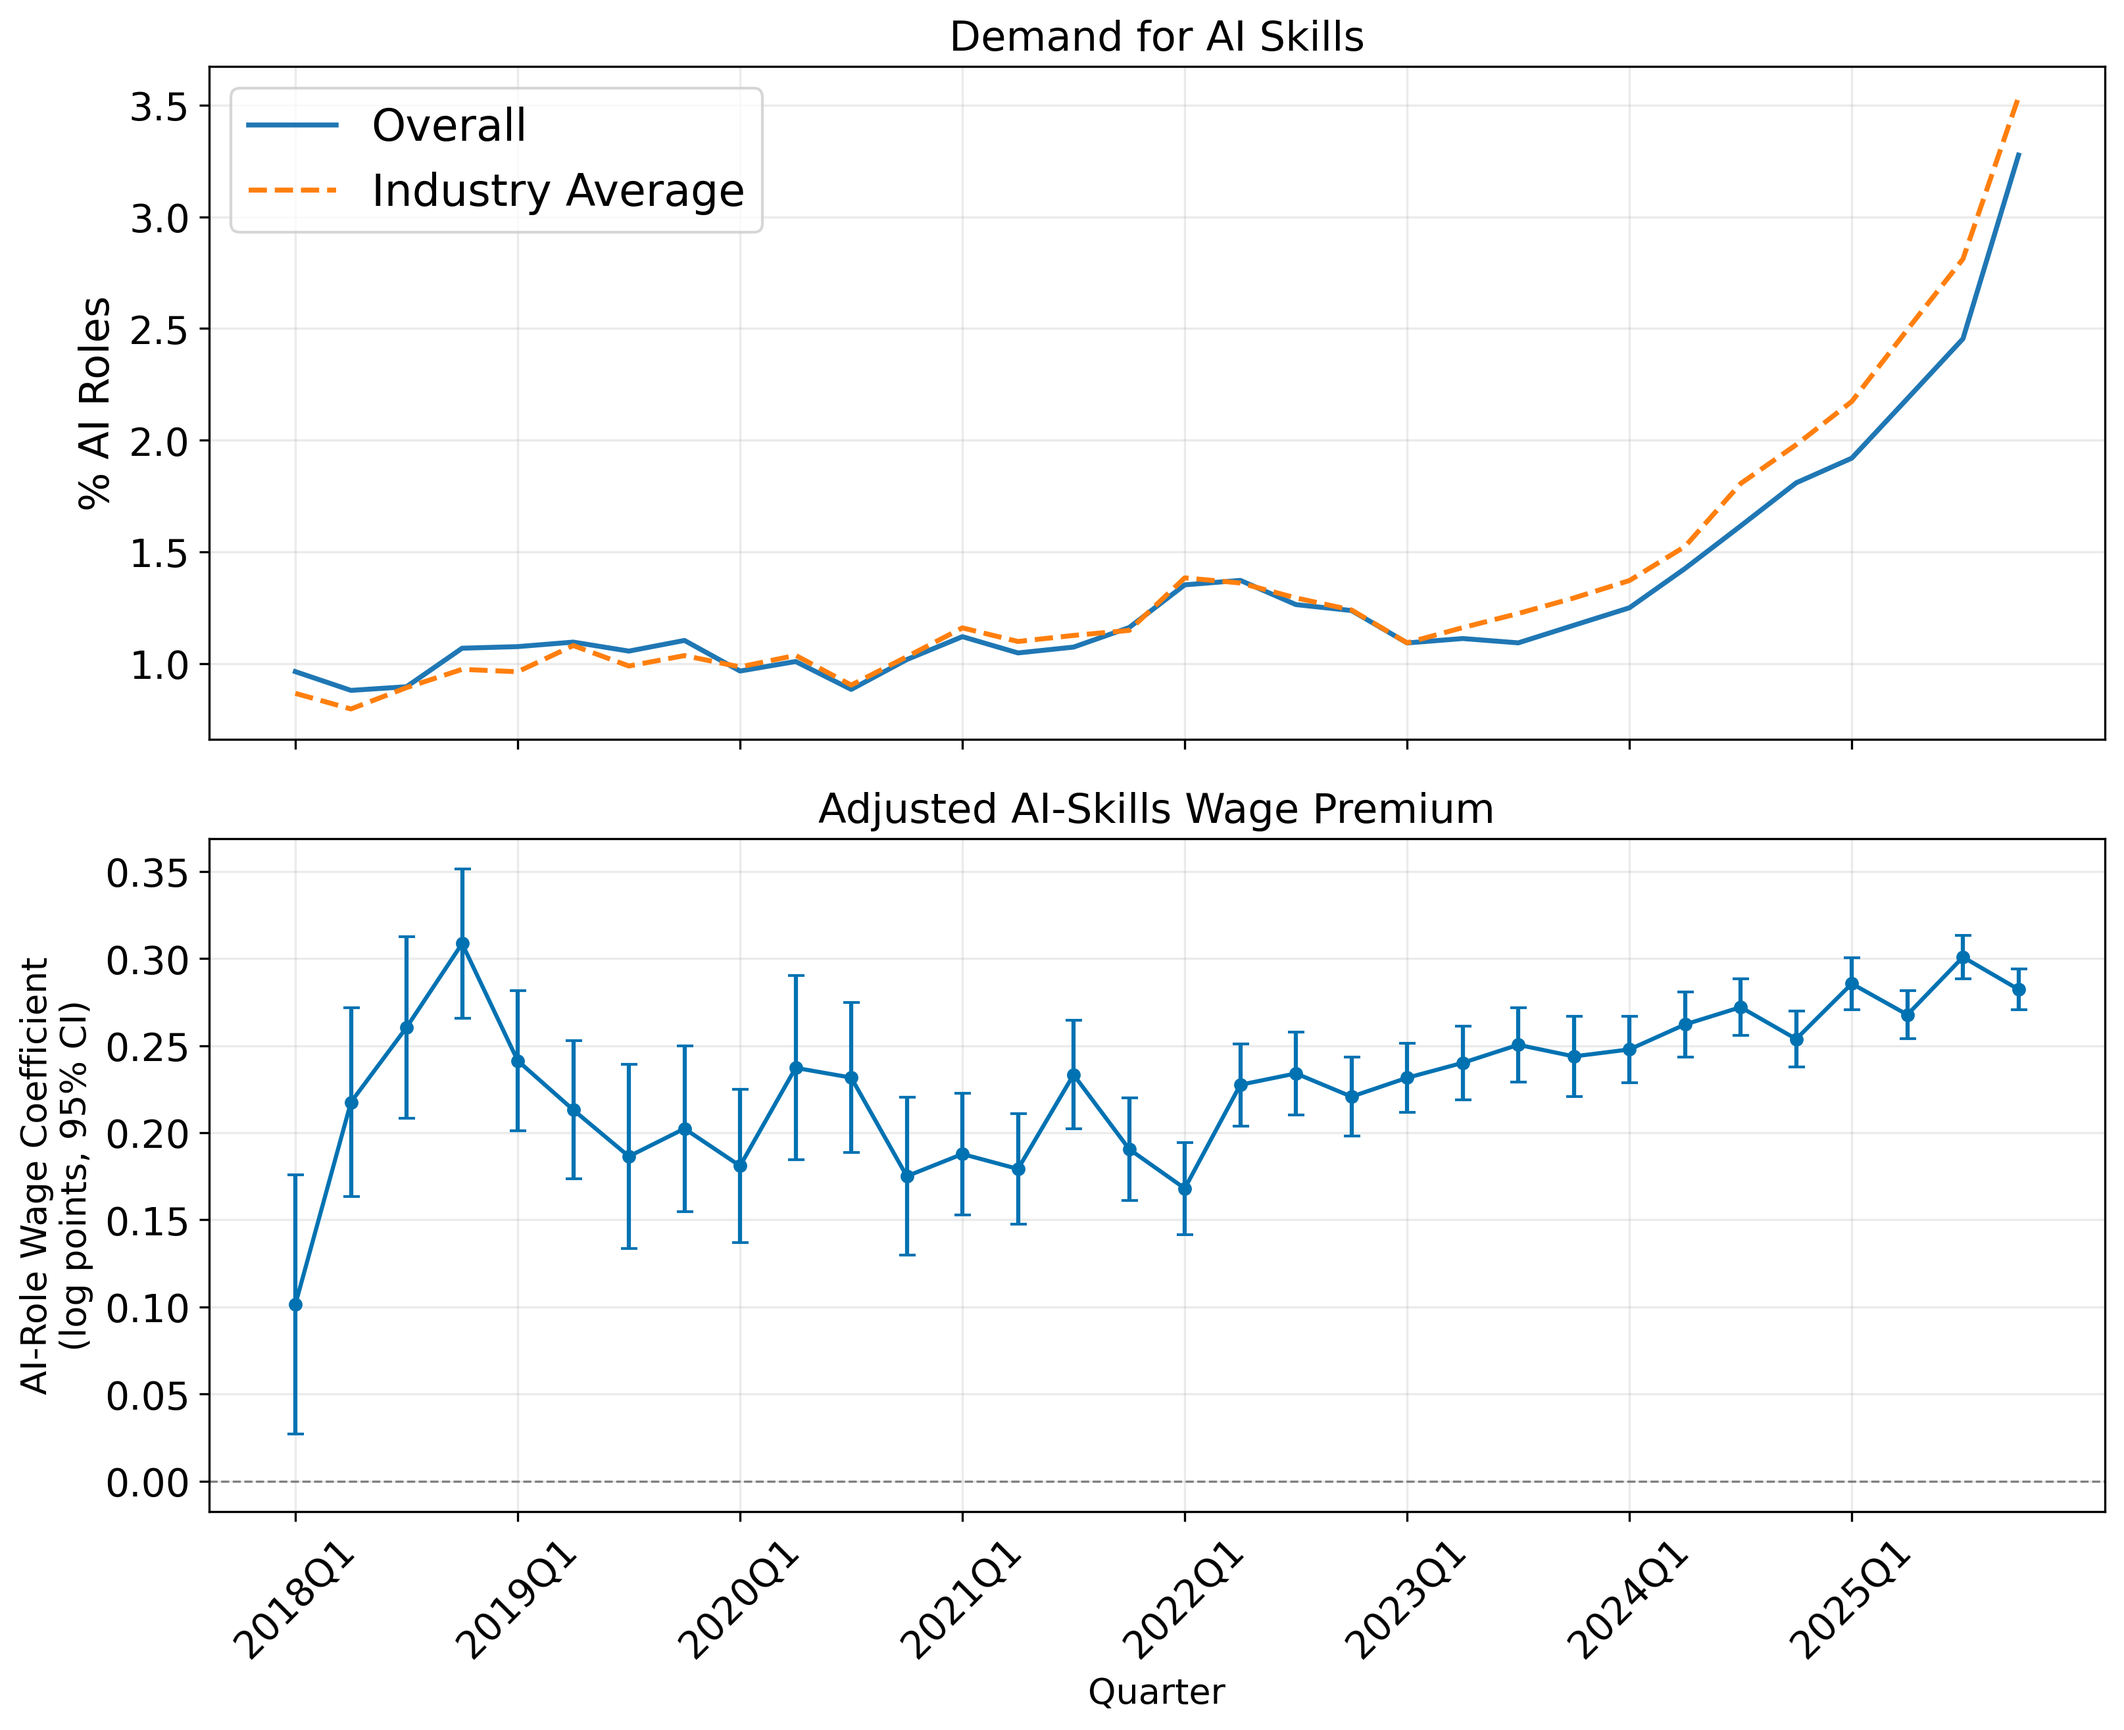
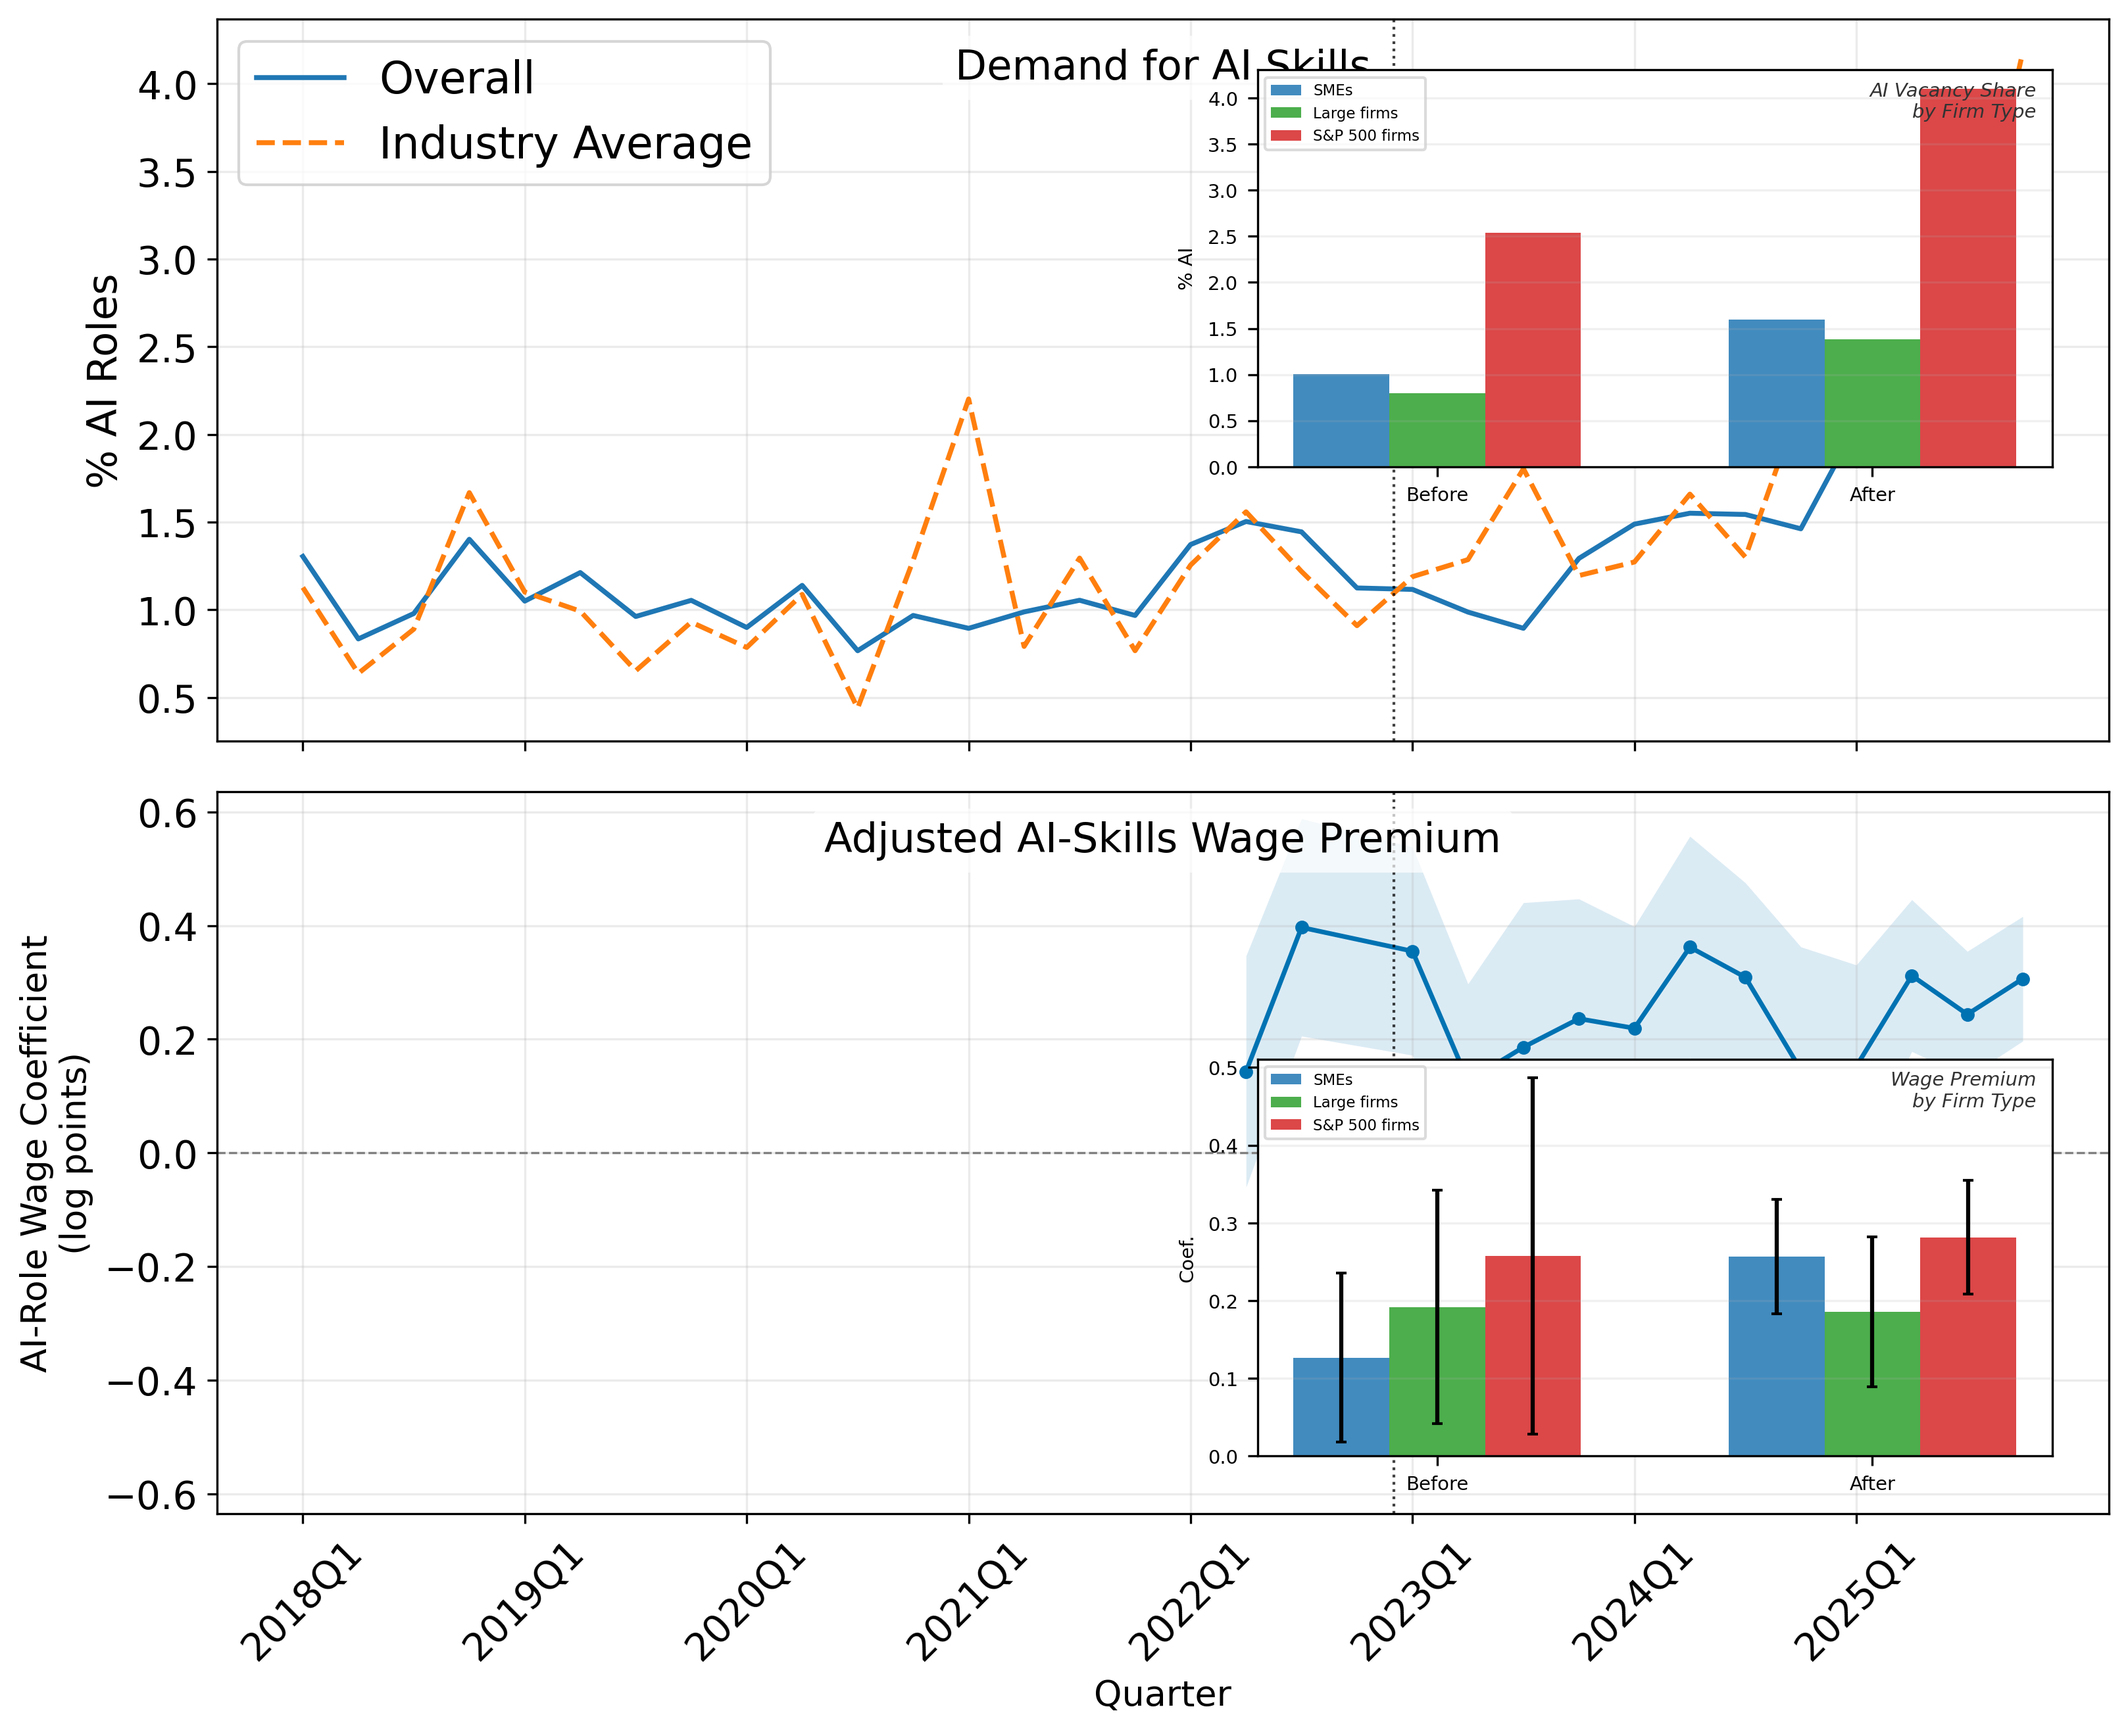
feat: enhance heatmap visualization and adjust yearly results plot limits

diff --git a/analysis/wage_perk_interaction_analysis.py b/analysis/wage_perk_interaction_analysis.py
@@ -274,14 +274,6 @@ def plot_yearly_results(results):
             if line_data.empty:
                 continue
             color = SAMPLE_COLORS[sample]
-            ax.fill_between(
-                line_data["year"],
-                line_data["beta3_lower_ci"],
-                line_data["beta3_upper_ci"],
-                color=color,
-                alpha=0.12,
-                linewidth=0,
-            )
             ax.plot(
                 line_data["year"],
                 line_data["beta3_interaction"],
@@ -293,6 +285,7 @@ def plot_yearly_results(results):
             )
         ax.axhline(0, color="gray", linewidth=0.8, linestyle="--")
         add_genai_year_line(ax)
+        ax.set_ylim(-0.2, 0.2)
         ax.set_title(benefits_labels_map[perk])
         ax.set_ylabel("AI Role × Perk Coefficient")
         ax.grid(alpha=0.2)
@@ -523,7 +516,9 @@ def plot_heatmap(results, period=POOLED_PERIOD, output_name="wage_perk_interacti
         vmax = 0.01
 
     fig, ax = plt.subplots(figsize=(8, 5.5))
-    im = ax.imshow(matrix, cmap="viridis", aspect="auto", vmin=-vmax, vmax=vmax)
+    # Diverging scale centered on zero: negative estimates are red, zero is
+    # white, and positive estimates are blue.
+    im = ax.imshow(matrix, cmap="RdBu", aspect="auto", vmin=-vmax, vmax=vmax)
 
     for i in range(matrix.shape[0]):
         for j in range(matrix.shape[1]):
@@ -567,13 +562,89 @@ def plot_heatmap(results, period=POOLED_PERIOD, output_name="wage_perk_interacti
 
 
 def plot_period_comparison_heatmaps(results):
-    """Save heatmaps for models through 2022 and after 2022."""
-    period_outputs = {
-        "Through 2022": "wage_perk_interaction_beta3_heatmap_through_2022.png",
-        "Post-2022": "wage_perk_interaction_beta3_heatmap_post_2022.png",
-    }
-    for period, output_name in period_outputs.items():
-        plot_heatmap(results, period=period, output_name=output_name)
+    """Plot pre- and post-2022 beta3 heatmaps in one shared figure."""
+    periods = ["Through 2022", "Post-2022"]
+    perk_order = list(benefits4)
+    perk_labels = [benefits_labels_map[p] for p in perk_order]
+    sample_order = FIRM_TYPE_SAMPLES
+    sample_labels = ["SMEs", "Large", "S&P 500"]
+    matrices = []
+    pval_matrices = []
+
+    for period in periods:
+        subset = results[
+            (results["period"] == period) & (results["status"] == "ok")
+        ]
+        matrix = np.full((len(perk_order), len(sample_order)), np.nan)
+        pval_matrix = np.full_like(matrix, np.nan)
+        for i, perk in enumerate(perk_order):
+            for j, sample in enumerate(sample_order):
+                row = subset[
+                    (subset["perk"] == perk) & (subset["sample"] == sample)
+                ]
+                if not row.empty:
+                    matrix[i, j] = row["beta3_interaction"].iloc[0]
+                    pval_matrix[i, j] = row["beta3_pvalue"].iloc[0]
+        matrices.append(matrix)
+        pval_matrices.append(pval_matrix)
+
+    vmax = max(np.nanmax(np.abs(matrix)) for matrix in matrices) * 1.05
+    if not np.isfinite(vmax) or vmax == 0:
+        vmax = 0.01
+
+    fig, axes = plt.subplots(
+        1, 2, figsize=(13, 6), sharey=True, constrained_layout=True
+    )
+    for ax, period, matrix, pval_matrix in zip(
+        axes, periods, matrices, pval_matrices
+    ):
+        im = ax.imshow(
+            matrix, cmap="RdBu", aspect="auto", vmin=-vmax, vmax=vmax
+        )
+        for i in range(matrix.shape[0]):
+            for j in range(matrix.shape[1]):
+                val = matrix[i, j]
+                pval = pval_matrix[i, j]
+                if np.isnan(val):
+                    continue
+                stars = ""
+                if pval < 0.01:
+                    stars = "***"
+                elif pval < 0.05:
+                    stars = "**"
+                elif pval < 0.1:
+                    stars = "*"
+                color = "white" if abs(val) > vmax * 0.55 else "black"
+                ax.text(
+                    j,
+                    i,
+                    f"{val:+.3f}{stars}",
+                    ha="center",
+                    va="center",
+                    fontsize=9,
+                    color=color,
+                )
+        ax.set_xticks(range(len(sample_labels)))
+        ax.set_xticklabels(sample_labels)
+        ax.set_title(period, fontsize=12)
+
+    axes[0].set_yticks(range(len(perk_labels)))
+    axes[0].set_yticklabels(perk_labels)
+    axes[0].set_ylabel("Perk", fontsize=11)
+    fig.supxlabel("Firm Type", fontsize=11)
+    fig.suptitle(
+        r"AI Role $\times$ Perk Interaction Coefficient ($\beta_3$)"
+        "\nPositive = complementarity, Negative = substitution",
+        fontsize=13,
+    )
+    cbar = fig.colorbar(im, ax=axes, shrink=0.85, pad=0.02)
+    cbar.set_label(r"$\beta_3$ (log points)", fontsize=10)
+
+    FIGURES_DIR.mkdir(parents=True, exist_ok=True)
+    output = FIGURES_DIR / "wage_perk_interaction_beta3_heatmap_period_comparison.png"
+    plt.savefig(output, bbox_inches="tight", dpi=300)
+    plt.close()
+    print(f"Saved: {output}")
 
 
 def plot_yearly_single_perk(results, perk="REMOTE_KW"):
